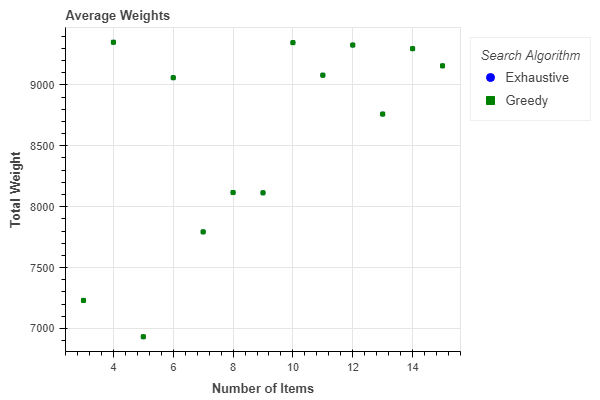
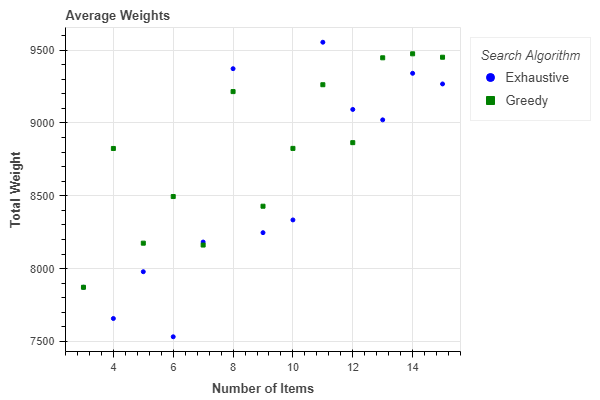
Greedy results now used, shmmrrr. -_-

diff --git a/Problem3.py b/Problem3.py
@@ -1,3 +1,10 @@
+'''
+Alex Walker
+10/4
+MAIN PROGRAM: Knapsack problem
+Funtions used in Functions.py and Plot_results.py
+'''
+
 import logging
 import time
 from Functions import *
@@ -90,19 +97,19 @@ for i in range(3, 16):
         starttime = time.time()  # start timer
 
         # run search algo.
-        value, weight = greedySerch(Objects, Max_weight)
+        highest_combo, highest = greedySerch(Objects, Max_weight)
 
         time.sleep(WAITTIME)  # wait number of seconds
         stoptime = time.time()  # stop timer
 
         average_T_greedy += stoptime - starttime - WAITTIME  # add timer to average
-        average_W_greedy += highest_weight
-        average_V_greedy += highest_value
+        average_W_greedy += highest[1]
+        average_V_greedy += highest[0]
 
         # print results of greedy algorithm
-        print("Greedy:\nBring\n", highest_combo)
-        print("Total Value\n", highest_value)
-        print("Total Weight\n", highest_weight)
+        print("GREEDY:\nBring\n", highest_combo)
+        print("Total Value\n", highest[0])
+        print("Total Weight\n", highest[1])
 
         print("TIME TO COMPLETE ALGORITHM", (time.time() - starttime - WAITTIME))
 

diff --git a/Functions.py b/Functions.py
@@ -53,7 +53,7 @@ def NumbGenerator(numb_objects=3):
         Objects[i] = [random.randint(1, 10000), random.randint(1, 100)]
     return max_weight, Objects
 
-# Greedy search algorithm big O()
+# Greedy search algorithm big O(n^2)
 def greedySerch(Objects, Max_weight):
     counter = 0
     Items = list(Objects.values())
@@ -88,4 +88,4 @@ def greedySerch(Objects, Max_weight):
             Cweight = findTotal(combo)[1]
 
     logging.debug("With " + str(len(Objects)) + " number of items we ran " + str(counter) + " times")
-    return findTotal(combo)
+    return combo, findTotal(combo)

diff --git a/FunctionTesting.py b/FunctionTesting.py
@@ -1,6 +1,16 @@
+'''
+This code does not affect the functionality of the program.
+Change anything.
+'''
+
 from math import factorial
 from Functions import *
 import logging
+from Plot_Results import *
+
+# use # on disable line to enable debug print statements
+logging.disable(logging.CRITICAL)
+logging.basicConfig(level=logging.DEBUG, format='%(message)s')
 
 '''
 for n in range(8, 16):

diff --git a/README.md b/README.md
@@ -2,3 +2,37 @@
 
 [Combinations Code](https://www.geeksforgeeks.org/python-program-to-find-all-the-combinations-in-the-list-with-the-given-condition)
 
+> 
+
+[Bokeh](https://docs.bokeh.org)
+
+>I decided to go with Bokeh due to matplotlib having issues.
+Would not install despite using two different systems, reinstalled python and pycharm.
+Updated both to latest version.
+ 
+
+# Problems 
+
+- Changes to Bokeh for ploting to replace matplotlib.
+- Redid Exhaustive search as it was not working as intended, ses combinations code.
+- Timer, forced to add a wait time that is then subtracted off. This was due to the 
+    timer randomly truncating to 0 seconds. Adding .1 then subtracting it off seems to have
+    fixed this issue.
+- Chose to include a read from file option for debugging and testing.
+    > To use this mode change `Max_weight, Objects = NumbGenerator(i)` in problem3.p to `Max_weight, Objects = setupFile(file_name, num_Items)`
+    
+    the File should be in the format
+    ```
+  int(Max_Weight)
+  int(Weight) int(Value)
+  int(Weight) int(Value)
+  .
+  v
+  ```
+
+# Notes
+
+Logging disable and enable the logging print out by commenting out the logging.disable() line
+
+FunctionTesting.py is used to test functions. Feel free to delete or add anycode you want as needed.
+  
